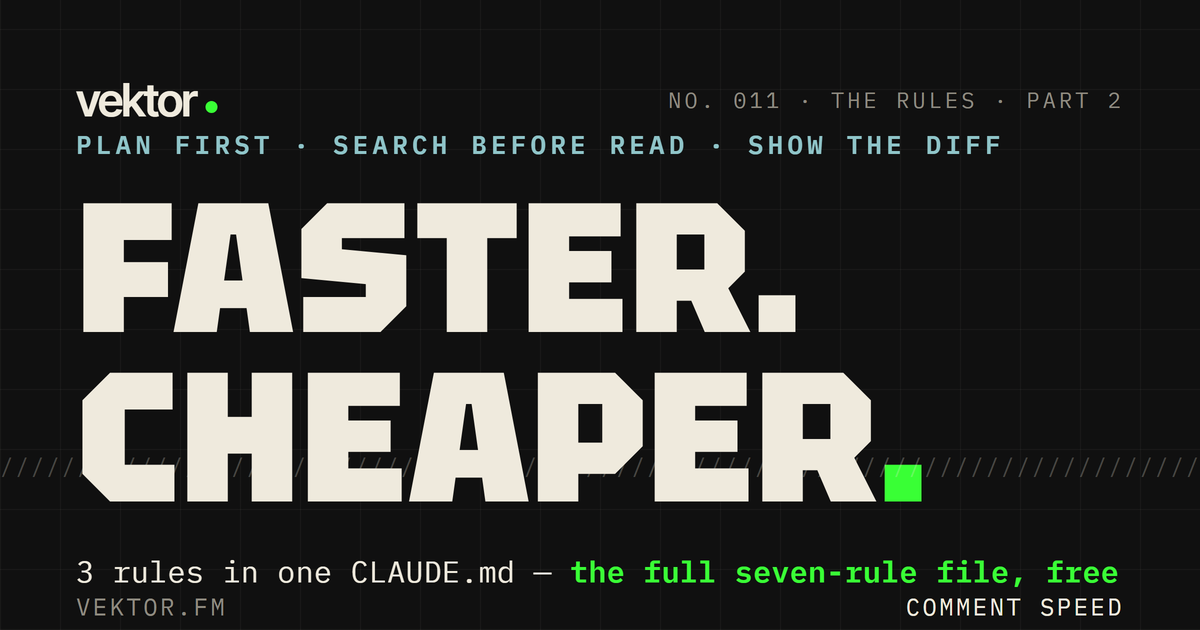
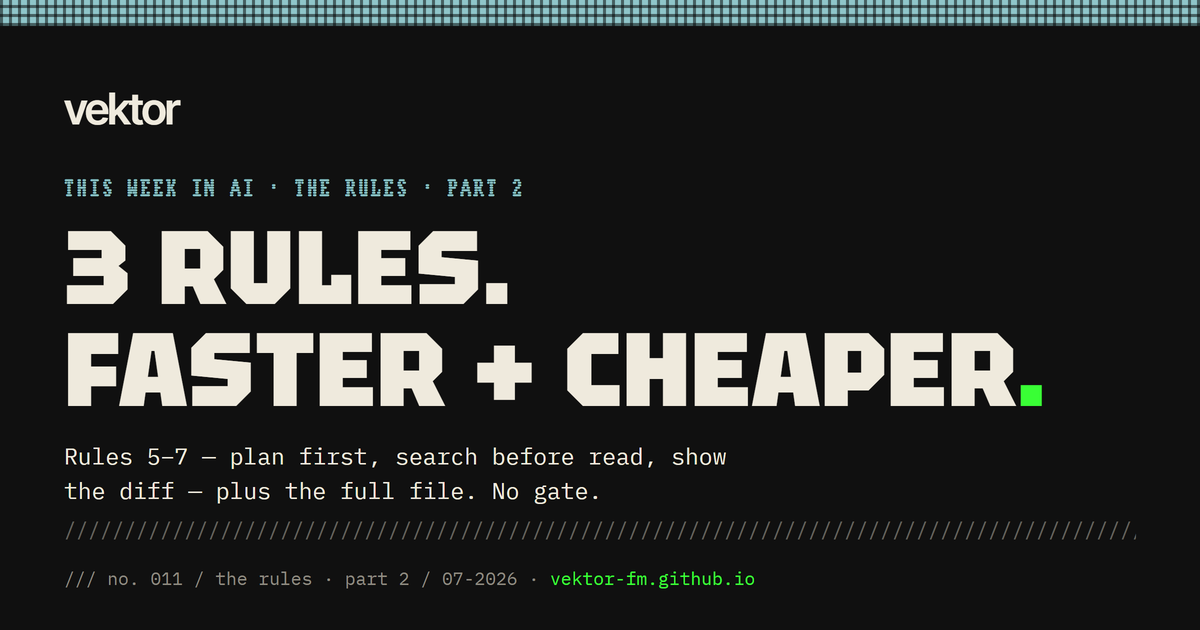
Taste pass: dominant index capture, unified wordmark chrome, no-006 primary CTA, five OG cards rebuilt
Four delegated design decisions, verified by measurement + visual judge:

- Index email capture upgraded from a quiet border-top form to the issue
  pages' dominant card grammar (aqua-border card, acid kicker, Tektur
  headline "Get every drop's pack.", filled button) and widened to full
  content width so desktop no longer strands it in half the container.
- Wordmark chrome unified: thanks.html masthead gets the standard glitch
  decode lockup; the index footer gets the glitch footer wordmark with
  the same IntersectionObserver replay as issue pages. One rule per
  position, everywhere.
- no-006 hero: the on-page "Our starter file" anchor is now the single
  filled primary, placed first; the off-site GitHub link stays secondary
  (consistent with the funnel redesign's email-primary/off-site-demoted
  rule -- making the external link primary would have contradicted it).
- OG cards for 008-012 rebuilt on the current template via the og_card
  manifest system (they were orphan PNGs from the pre-redesign template
  with no sources). Headlines uniform at 104px (012 at 90 so "your repo
  survives" holds one line), subs capped at two lines, sub margin 18 --
  all five measured clear of the hatch rule (subBottom <= 510 vs rule
  515) before rendering; judge passed 5/5.

Note: the four approved pre-existing cards (004/006/007/015) also
overlap the hatch rule (007 by 59px, 015 by 73px) -- left untouched
deliberately; they are approved live artifacts.

diff --git a/index.html b/index.html
@@ -206,8 +206,10 @@
   @media (min-width:820px){ .hero .ascii{display:block;} }
 
   /* newsletter (primary action, in-hero) */
-  .capture{margin-top:36px; max-width:560px; border-top:3px solid var(--paper); padding-top:24px;}
-  .capture h2.kick{display:block; color:var(--acid); margin:0 0 14px; font-weight:400;}
+  .capture{margin-top:36px; background:#141414; border:2px solid var(--aqua); padding:30px 26px 28px;}
+  .capture .ck{display:block; color:var(--acid); font-family:var(--kick); text-transform:uppercase; letter-spacing:0.14em; font-size:13px; margin-bottom:10px;}
+  .capture h2.d{font-family:var(--disp); font-weight:900; text-transform:uppercase; line-height:1.02; letter-spacing:0.005em; font-size:clamp(28px,7.5vw,48px); margin:0 0 12px;}
+  .capture p.s{font-size:15.5px; line-height:1.5; max-width:52ch; margin:0 0 20px; color:var(--paper);}
   .capture .ok{display:none; margin-top:14px; font-family:var(--kick); text-transform:uppercase; letter-spacing:0.1em; font-size:13px; color:var(--acid);}
   .capture.done form{display:none;}
   .capture.done .ok{display:block;}
@@ -270,7 +272,15 @@
   .socials a:hover{color:var(--acid);}
   .backref{margin-top:32px; font-family:var(--kick); text-transform:uppercase; letter-spacing:0.1em; font-size:13px; color:var(--paper);}
   .wordmark-foot{display:flex; align-items:center; gap:14px; margin-top:38px; flex-wrap:wrap;}
-  .wordmark-foot .w{font-family:var(--wm); font-weight:600; letter-spacing:-0.045em; font-size:34px; color:var(--paper);}
+  .wm-foot{position:relative; display:inline-flex; font-family:var(--wm); font-weight:600; letter-spacing:-0.045em; font-size:34px; color:var(--paper);}
+  .wm-foot .ch2{position:relative; display:inline-block;}
+  .wm-foot .ch2 .l{opacity:1;}
+  .wm-foot .ch2 .g{position:absolute; left:0; top:0; font-family:var(--mono); color:var(--acid); opacity:0;}
+  .wm-foot.play .ch2 .l{animation:revealL2 .01s steps(1) both; animation-delay:calc(0.16s + var(--i)*0.07s);}
+  .wm-foot.play .ch2 .g{animation:flashG2 .07s steps(1) both; animation-delay:calc(0.10s + var(--i)*0.07s);}
+  @keyframes revealL2{0%{opacity:0;}100%{opacity:1;}}
+  @keyframes flashG2{0%{opacity:1;}100%{opacity:0;}}
+  @media (prefers-reduced-motion:reduce){ .wm-foot.play .ch2 .l{animation:none;} .wm-foot .ch2 .g{display:none;} }
   .wordmark-foot .m{font-family:var(--mono); font-size:12px; color:#8f8b80;}
 </style>
 </head>
@@ -331,12 +341,14 @@
 <!-- ============================ NEWSLETTER (primary conversion) ============================ -->
 <section style="padding:12px var(--rail) 0;">
   <div class="capture" id="subscribe">
-    <h2 class="kick">The Teardown — one email / week</h2>
+    <span class="ck">The Teardown — one email / week</span>
+    <h2 class="d">Get every drop's pack.</h2>
+    <p class="s">The current drop's config pack + one teardown a week, straight to your inbox.</p>
     <form method="post" action="https://buttondown.com/api/emails/embed-subscribe/vektor">
       <input type="email" name="email" placeholder="you@email.com" aria-label="Email address" autocomplete="email" required="">
       <button class="btn" type="submit">Subscribe →</button>
     </form>
-    <div class="note">The current drop's config pack + one teardown a week. Unsubscribe anytime.</div>
+    <div class="note">Free. Unsubscribe anytime.</div>
   </div>
 </section>
 
@@ -479,7 +491,7 @@
   </nav>
   <div class="backref">Comment the keyword on the latest reel.</div>
   <div class="wordmark-foot">
-    <span class="w">vektor</span>
+    <span class="wm-foot" id="wmFoot" aria-label="vektor"><span class="ch2" style="--i:0"><span class="g">%</span><span class="l">v</span></span><span class="ch2" style="--i:1"><span class="g">#</span><span class="l">e</span></span><span class="ch2" style="--i:2"><span class="g">Z</span><span class="l">k</span></span><span class="ch2" style="--i:3"><span class="g">8</span><span class="l">t</span></span><span class="ch2" style="--i:4"><span class="g">@</span><span class="l">o</span></span><span class="ch2" style="--i:5"><span class="g">W</span><span class="l">r</span></span></span>
     <span class="m">/// index / 07-2026 · the frontier, by the numbers</span>
   </div>
 </footer>
@@ -491,6 +503,8 @@
   // GoatCounter subscribe event + non-blocking Buttondown submit + UTM tagging.
   // Page works fully without JS (form falls back to a normal POST redirect).
   document.querySelectorAll('form').forEach(function(f){ f.addEventListener('submit', function(){ if(window.goatcounter && goatcounter.count){ goatcounter.count({path:'hub-subscribe-submit', event:true}); } }); });
+  var wmFoot=document.getElementById('wmFoot');
+  if(wmFoot && 'IntersectionObserver' in window){ var io=new IntersectionObserver(function(es){ es.forEach(function(e){ if(e.isIntersecting){ wmFoot.classList.remove('play'); void wmFoot.offsetWidth; wmFoot.classList.add('play'); } }); }, {threshold:0.6}); io.observe(wmFoot); }
   // Form submits as a plain navigation POST — Buttondown interposes a one-click
   // verification page, so an AJAX submit silently drops the signup (tested 2026-07-05).
   document.querySelectorAll('a[href^="http"]').forEach(function(a){

diff --git a/src/index.body.html b/src/index.body.html
@@ -206,8 +206,10 @@
   @media (min-width:820px){ .hero .ascii{display:block;} }
 
   /* newsletter (primary action, in-hero) */
-  .capture{margin-top:36px; max-width:560px; border-top:3px solid var(--paper); padding-top:24px;}
-  .capture h2.kick{display:block; color:var(--acid); margin:0 0 14px; font-weight:400;}
+  .capture{margin-top:36px; background:#141414; border:2px solid var(--aqua); padding:30px 26px 28px;}
+  .capture .ck{display:block; color:var(--acid); font-family:var(--kick); text-transform:uppercase; letter-spacing:0.14em; font-size:13px; margin-bottom:10px;}
+  .capture h2.d{font-family:var(--disp); font-weight:900; text-transform:uppercase; line-height:1.02; letter-spacing:0.005em; font-size:clamp(28px,7.5vw,48px); margin:0 0 12px;}
+  .capture p.s{font-size:15.5px; line-height:1.5; max-width:52ch; margin:0 0 20px; color:var(--paper);}
   .capture .ok{display:none; margin-top:14px; font-family:var(--kick); text-transform:uppercase; letter-spacing:0.1em; font-size:13px; color:var(--acid);}
   .capture.done form{display:none;}
   .capture.done .ok{display:block;}
@@ -270,7 +272,15 @@
   .socials a:hover{color:var(--acid);}
   .backref{margin-top:32px; font-family:var(--kick); text-transform:uppercase; letter-spacing:0.1em; font-size:13px; color:var(--paper);}
   .wordmark-foot{display:flex; align-items:center; gap:14px; margin-top:38px; flex-wrap:wrap;}
-  .wordmark-foot .w{font-family:var(--wm); font-weight:600; letter-spacing:-0.045em; font-size:34px; color:var(--paper);}
+  .wm-foot{position:relative; display:inline-flex; font-family:var(--wm); font-weight:600; letter-spacing:-0.045em; font-size:34px; color:var(--paper);}
+  .wm-foot .ch2{position:relative; display:inline-block;}
+  .wm-foot .ch2 .l{opacity:1;}
+  .wm-foot .ch2 .g{position:absolute; left:0; top:0; font-family:var(--mono); color:var(--acid); opacity:0;}
+  .wm-foot.play .ch2 .l{animation:revealL2 .01s steps(1) both; animation-delay:calc(0.16s + var(--i)*0.07s);}
+  .wm-foot.play .ch2 .g{animation:flashG2 .07s steps(1) both; animation-delay:calc(0.10s + var(--i)*0.07s);}
+  @keyframes revealL2{0%{opacity:0;}100%{opacity:1;}}
+  @keyframes flashG2{0%{opacity:1;}100%{opacity:0;}}
+  @media (prefers-reduced-motion:reduce){ .wm-foot.play .ch2 .l{animation:none;} .wm-foot .ch2 .g{display:none;} }
   .wordmark-foot .m{font-family:var(--mono); font-size:12px; color:#8f8b80;}
 </style>
 </head>
@@ -331,12 +341,14 @@
 <!-- ============================ NEWSLETTER (primary conversion) ============================ -->
 <section style="padding:12px var(--rail) 0;">
   <div class="capture" id="subscribe">
-    <h2 class="kick">The Teardown — one email / week</h2>
+    <span class="ck">The Teardown — one email / week</span>
+    <h2 class="d">Get every drop's pack.</h2>
+    <p class="s">The current drop's config pack + one teardown a week, straight to your inbox.</p>
     <form method="post" action="https://buttondown.com/api/emails/embed-subscribe/vektor">
       <input type="email" name="email" placeholder="you@email.com" aria-label="Email address" autocomplete="email" required="">
       <button class="btn" type="submit">Subscribe →</button>
     </form>
-    <div class="note">The current drop's config pack + one teardown a week. Unsubscribe anytime.</div>
+    <div class="note">Free. Unsubscribe anytime.</div>
   </div>
 </section>
 
@@ -381,7 +393,7 @@
   </nav>
   <div class="backref">Comment the keyword on the latest reel.</div>
   <div class="wordmark-foot">
-    <span class="w">vektor</span>
+    <span class="wm-foot" id="wmFoot" aria-label="vektor"><span class="ch2" style="--i:0"><span class="g">%</span><span class="l">v</span></span><span class="ch2" style="--i:1"><span class="g">#</span><span class="l">e</span></span><span class="ch2" style="--i:2"><span class="g">Z</span><span class="l">k</span></span><span class="ch2" style="--i:3"><span class="g">8</span><span class="l">t</span></span><span class="ch2" style="--i:4"><span class="g">@</span><span class="l">o</span></span><span class="ch2" style="--i:5"><span class="g">W</span><span class="l">r</span></span></span>
     <span class="m">/// index / 07-2026 · the frontier, by the numbers</span>
   </div>
 </footer>
@@ -393,6 +405,8 @@
   // GoatCounter subscribe event + non-blocking Buttondown submit + UTM tagging.
   // Page works fully without JS (form falls back to a normal POST redirect).
   document.querySelectorAll('form').forEach(function(f){ f.addEventListener('submit', function(){ if(window.goatcounter && goatcounter.count){ goatcounter.count({path:'hub-subscribe-submit', event:true}); } }); });
+  var wmFoot=document.getElementById('wmFoot');
+  if(wmFoot && 'IntersectionObserver' in window){ var io=new IntersectionObserver(function(es){ es.forEach(function(e){ if(e.isIntersecting){ wmFoot.classList.remove('play'); void wmFoot.offsetWidth; wmFoot.classList.add('play'); } }); }, {threshold:0.6}); io.observe(wmFoot); }
   // Form submits as a plain navigation POST — Buttondown interposes a one-click
   // verification page, so an AJAX submit silently drops the signup (tested 2026-07-05).
   document.querySelectorAll('a[href^="http"]').forEach(function(a){

diff --git a/thanks.html b/thanks.html
@@ -35,7 +35,19 @@
   .chrome{ position:sticky; top:0; z-index:50; background:var(--ink); border-bottom:1px solid #262626; display:flex; align-items:center; justify-content:space-between; height:64px; padding:0 var(--rail); }
   .chrome .marker{font-family:var(--kick); text-transform:uppercase; letter-spacing:0.1em; font-size:13px; color:#8f8b80;}
   @media (max-width:520px){ .chrome .marker{display:none;} }
-  .wm{display:inline-flex; text-decoration:none; font-family:var(--wm); font-weight:600; letter-spacing:-0.045em; color:var(--paper); font-size:30px; line-height:1;}
+  .wm{position:relative; display:inline-flex; text-decoration:none; font-family:var(--wm); font-weight:600; letter-spacing:-0.045em; color:var(--paper); font-size:30px; line-height:1;}
+  .wm-main{position:relative; z-index:2; display:inline-flex;}
+  .wm-main .ch{position:relative; display:inline-block;}
+  .wm-main .ch .l{opacity:0; animation:showL .01s steps(1) forwards; animation-delay:calc(0.20s + var(--i)*0.075s);}
+  .wm-main .ch .g{position:absolute; left:0; top:0; font-family:var(--mono); color:var(--acid); opacity:0; animation:flashG .075s steps(1) forwards; animation-delay:calc(0.14s + var(--i)*0.075s);}
+  @keyframes showL{to{opacity:1;}}
+  @keyframes flashG{0%{opacity:1;}100%{opacity:0;}}
+  .wm-plate{position:absolute; left:0; top:0; z-index:1; mix-blend-mode:screen; pointer-events:none;}
+  .wm-acid{color:var(--acid); animation:regA 1.15s steps(1) forwards;}
+  .wm-orchid{color:#C77BC9; animation:regB 1.15s steps(1) forwards;}
+  @keyframes regA{0%{transform:translate(7px,4px);opacity:.85}30%{transform:translate(4px,2px)}55%{transform:translate(2px,1px)}78%{transform:translate(0,0);opacity:.5}100%{transform:translate(0,0);opacity:0}}
+  @keyframes regB{0%{transform:translate(-6px,-4px);opacity:.85}30%{transform:translate(-4px,-2px)}55%{transform:translate(-2px,-1px)}78%{transform:translate(0,0);opacity:.5}100%{transform:translate(0,0);opacity:0}}
+  @media (prefers-reduced-motion:reduce){ .wm-main .ch .l{opacity:1; animation:none;} .wm-main .ch .g,.wm-plate{display:none;} }
   .weave{ height:26px; width:100%; margin:0; background-color:var(--aqua); background-image: repeating-linear-gradient(90deg, rgba(16,16,16,.55) 0 3px, transparent 3px 9px), repeating-linear-gradient(0deg, rgba(16,16,16,.55) 0 3px, transparent 3px 9px), repeating-linear-gradient(90deg, rgba(255,255,255,.25) 0 1px, transparent 1px 9px); background-blend-mode:multiply; }
   .hero{padding:56px var(--rail) 40px;}
   .hero .eye{color:var(--aqua); margin-bottom:20px;}
@@ -60,7 +72,13 @@
 <body>
 
 <header class="chrome">
-  <a class="wm" href="./index.html" aria-label="vektor">vektor</a>
+  <a class="wm" href="./index.html" aria-label="vektor">
+    <span class="wm-plate wm-acid" aria-hidden="true">vektor</span>
+    <span class="wm-plate wm-orchid" aria-hidden="true">vektor</span>
+    <span class="wm-main">
+      <span class="ch" style="--i:0"><span class="g">%</span><span class="l">v</span></span><span class="ch" style="--i:1"><span class="g">#</span><span class="l">e</span></span><span class="ch" style="--i:2"><span class="g">Z</span><span class="l">k</span></span><span class="ch" style="--i:3"><span class="g">8</span><span class="l">t</span></span><span class="ch" style="--i:4"><span class="g">@</span><span class="l">o</span></span><span class="ch" style="--i:5"><span class="g">W</span><span class="l">r</span></span>
+    </span>
+  </a>
   <span class="marker">The Teardown · Confirmed</span>
 </header>
 

diff --git a/og-src-no-011.html b/og-src-no-011.html
@@ -1,0 +1,30 @@
+<!DOCTYPE html>
+<html lang="en"><head>
+<meta charset="utf-8">
+<style>
+@font-face { font-family:'Tektur'; font-weight:900; src:url("fonts/tektur-900-latin.woff2") format('woff2'); }
+@font-face { font-family:'IBM Plex Mono'; font-weight:400; src:url("fonts/ibm-plex-mono-400-latin.woff2") format('woff2'); }
+@font-face { font-family:'Workbench'; font-weight:400; src:url("fonts/workbench-400-latin.woff2") format('woff2'); }
+@font-face { font-family:'Inter Tight'; font-weight:600; src:url("fonts/inter-tight-600-latin.woff2") format('woff2'); }
+*{box-sizing:border-box;margin:0;}
+html,body{width:1200px;height:630px;overflow:hidden;}
+body{background:#101010;color:#EFEADD;font-family:'IBM Plex Mono',monospace;position:relative;padding:56px 64px;}
+.weave{position:absolute;top:0;left:0;height:26px;width:100%;background-color:#8FC5C9;background-image:repeating-linear-gradient(90deg,rgba(16,16,16,.55) 0 3px,transparent 3px 9px),repeating-linear-gradient(0deg,rgba(16,16,16,.55) 0 3px,transparent 3px 9px),repeating-linear-gradient(90deg,rgba(255,255,255,.25) 0 1px,transparent 1px 9px);background-blend-mode:multiply;}
+.wm{font-family:'Inter Tight',sans-serif;font-weight:600;letter-spacing:-0.045em;font-size:44px;margin-top:26px;}
+.kick{font-family:'Workbench',monospace;text-transform:uppercase;letter-spacing:0.14em;font-size:20px;color:#8FC5C9;margin-top:44px;}
+h1{font-family:'Tektur',sans-serif;font-weight:900;text-transform:uppercase;line-height:0.98;letter-spacing:0.005em;font-size:104px;margin-top:18px;}
+h1 .dot{color:#39FF35;}
+.sub{font-size:23px;line-height:1.5;margin-top:18px;max-width:48ch;color:#EFEADD;}
+.rule{position:absolute;left:64px;right:64px;bottom:88px;color:rgba(239,234,221,0.4);font-size:20px;white-space:nowrap;overflow:hidden;}
+.meta{position:absolute;left:64px;bottom:40px;font-size:18px;color:#8f8b80;}
+.meta b{color:#39FF35;font-weight:400;}
+</style></head>
+<body>
+<div class="weave"></div>
+<div class="wm">vektor</div>
+<div class="kick">This Week in AI · The Rules · Part 2</div>
+<h1>3 rules.<br>Faster + cheaper<span class="dot">.</span></h1>
+<p class="sub">Rules 5–7 — plan first, search before read, show the diff — plus the full file. No gate.</p>
+<div class="rule">////////////////////////////////////////////////////////////////////////////////////////////////////////////////</div>
+<div class="meta">/// no. 011 / the rules · part 2 / 07-2026 · <b>vektor-fm.github.io</b></div>
+</body></html>

diff --git a/og-src-no-012.html b/og-src-no-012.html
@@ -1,0 +1,30 @@
+<!DOCTYPE html>
+<html lang="en"><head>
+<meta charset="utf-8">
+<style>
+@font-face { font-family:'Tektur'; font-weight:900; src:url("fonts/tektur-900-latin.woff2") format('woff2'); }
+@font-face { font-family:'IBM Plex Mono'; font-weight:400; src:url("fonts/ibm-plex-mono-400-latin.woff2") format('woff2'); }
+@font-face { font-family:'Workbench'; font-weight:400; src:url("fonts/workbench-400-latin.woff2") format('woff2'); }
+@font-face { font-family:'Inter Tight'; font-weight:600; src:url("fonts/inter-tight-600-latin.woff2") format('woff2'); }
+*{box-sizing:border-box;margin:0;}
+html,body{width:1200px;height:630px;overflow:hidden;}
+body{background:#101010;color:#EFEADD;font-family:'IBM Plex Mono',monospace;position:relative;padding:56px 64px;}
+.weave{position:absolute;top:0;left:0;height:26px;width:100%;background-color:#8FC5C9;background-image:repeating-linear-gradient(90deg,rgba(16,16,16,.55) 0 3px,transparent 3px 9px),repeating-linear-gradient(0deg,rgba(16,16,16,.55) 0 3px,transparent 3px 9px),repeating-linear-gradient(90deg,rgba(255,255,255,.25) 0 1px,transparent 1px 9px);background-blend-mode:multiply;}
+.wm{font-family:'Inter Tight',sans-serif;font-weight:600;letter-spacing:-0.045em;font-size:44px;margin-top:26px;}
+.kick{font-family:'Workbench',monospace;text-transform:uppercase;letter-spacing:0.14em;font-size:20px;color:#8FC5C9;margin-top:44px;}
+h1{font-family:'Tektur',sans-serif;font-weight:900;text-transform:uppercase;line-height:0.98;letter-spacing:0.005em;font-size:90px;margin-top:18px;}
+h1 .dot{color:#39FF35;}
+.sub{font-size:23px;line-height:1.5;margin-top:18px;max-width:48ch;color:#EFEADD;}
+.rule{position:absolute;left:64px;right:64px;bottom:88px;color:rgba(239,234,221,0.4);font-size:20px;white-space:nowrap;overflow:hidden;}
+.meta{position:absolute;left:64px;bottom:40px;font-size:18px;color:#8f8b80;}
+.meta b{color:#39FF35;font-weight:400;}
+</style></head>
+<body>
+<div class="weave"></div>
+<div class="wm">vektor</div>
+<div class="kick">This Week in AI · Git Hygiene</div>
+<h1>6 rules.<br>Your repo survives<span class="dot">.</span></h1>
+<p class="sub">The git-hygiene CLAUDE.md — six rules that keep an AI agent from wrecking your repo. No gate.</p>
+<div class="rule">////////////////////////////////////////////////////////////////////////////////////////////////////////////////</div>
+<div class="meta">/// no. 012 / git hygiene / 07-2026 · <b>vektor-fm.github.io</b></div>
+</body></html>

diff --git a/og-src-no-009.html b/og-src-no-009.html
@@ -1,0 +1,30 @@
+<!DOCTYPE html>
+<html lang="en"><head>
+<meta charset="utf-8">
+<style>
+@font-face { font-family:'Tektur'; font-weight:900; src:url("fonts/tektur-900-latin.woff2") format('woff2'); }
+@font-face { font-family:'IBM Plex Mono'; font-weight:400; src:url("fonts/ibm-plex-mono-400-latin.woff2") format('woff2'); }
+@font-face { font-family:'Workbench'; font-weight:400; src:url("fonts/workbench-400-latin.woff2") format('woff2'); }
+@font-face { font-family:'Inter Tight'; font-weight:600; src:url("fonts/inter-tight-600-latin.woff2") format('woff2'); }
+*{box-sizing:border-box;margin:0;}
+html,body{width:1200px;height:630px;overflow:hidden;}
+body{background:#101010;color:#EFEADD;font-family:'IBM Plex Mono',monospace;position:relative;padding:56px 64px;}
+.weave{position:absolute;top:0;left:0;height:26px;width:100%;background-color:#8FC5C9;background-image:repeating-linear-gradient(90deg,rgba(16,16,16,.55) 0 3px,transparent 3px 9px),repeating-linear-gradient(0deg,rgba(16,16,16,.55) 0 3px,transparent 3px 9px),repeating-linear-gradient(90deg,rgba(255,255,255,.25) 0 1px,transparent 1px 9px);background-blend-mode:multiply;}
+.wm{font-family:'Inter Tight',sans-serif;font-weight:600;letter-spacing:-0.045em;font-size:44px;margin-top:26px;}
+.kick{font-family:'Workbench',monospace;text-transform:uppercase;letter-spacing:0.14em;font-size:20px;color:#8FC5C9;margin-top:44px;}
+h1{font-family:'Tektur',sans-serif;font-weight:900;text-transform:uppercase;line-height:0.98;letter-spacing:0.005em;font-size:104px;margin-top:18px;}
+h1 .dot{color:#39FF35;}
+.sub{font-size:23px;line-height:1.5;margin-top:18px;max-width:48ch;color:#EFEADD;}
+.rule{position:absolute;left:64px;right:64px;bottom:88px;color:rgba(239,234,221,0.4);font-size:20px;white-space:nowrap;overflow:hidden;}
+.meta{position:absolute;left:64px;bottom:40px;font-size:18px;color:#8f8b80;}
+.meta b{color:#39FF35;font-weight:400;}
+</style></head>
+<body>
+<div class="weave"></div>
+<div class="wm">vektor</div>
+<div class="kick">This Week in AI · The Carousel</div>
+<h1>One prompt.<br>Every carousel<span class="dot">.</span></h1>
+<p class="sub">The master prompt that turns any topic into an Instagram carousel. Paste-ready. No gate.</p>
+<div class="rule">////////////////////////////////////////////////////////////////////////////////////////////////////////////////</div>
+<div class="meta">/// no. 009 / the carousel / 07-2026 · <b>vektor-fm.github.io</b></div>
+</body></html>

diff --git a/og-src-no-010.html b/og-src-no-010.html
@@ -1,0 +1,30 @@
+<!DOCTYPE html>
+<html lang="en"><head>
+<meta charset="utf-8">
+<style>
+@font-face { font-family:'Tektur'; font-weight:900; src:url("fonts/tektur-900-latin.woff2") format('woff2'); }
+@font-face { font-family:'IBM Plex Mono'; font-weight:400; src:url("fonts/ibm-plex-mono-400-latin.woff2") format('woff2'); }
+@font-face { font-family:'Workbench'; font-weight:400; src:url("fonts/workbench-400-latin.woff2") format('woff2'); }
+@font-face { font-family:'Inter Tight'; font-weight:600; src:url("fonts/inter-tight-600-latin.woff2") format('woff2'); }
+*{box-sizing:border-box;margin:0;}
+html,body{width:1200px;height:630px;overflow:hidden;}
+body{background:#101010;color:#EFEADD;font-family:'IBM Plex Mono',monospace;position:relative;padding:56px 64px;}
+.weave{position:absolute;top:0;left:0;height:26px;width:100%;background-color:#8FC5C9;background-image:repeating-linear-gradient(90deg,rgba(16,16,16,.55) 0 3px,transparent 3px 9px),repeating-linear-gradient(0deg,rgba(16,16,16,.55) 0 3px,transparent 3px 9px),repeating-linear-gradient(90deg,rgba(255,255,255,.25) 0 1px,transparent 1px 9px);background-blend-mode:multiply;}
+.wm{font-family:'Inter Tight',sans-serif;font-weight:600;letter-spacing:-0.045em;font-size:44px;margin-top:26px;}
+.kick{font-family:'Workbench',monospace;text-transform:uppercase;letter-spacing:0.14em;font-size:20px;color:#8FC5C9;margin-top:44px;}
+h1{font-family:'Tektur',sans-serif;font-weight:900;text-transform:uppercase;line-height:0.98;letter-spacing:0.005em;font-size:104px;margin-top:18px;}
+h1 .dot{color:#39FF35;}
+.sub{font-size:23px;line-height:1.5;margin-top:18px;max-width:48ch;color:#EFEADD;}
+.rule{position:absolute;left:64px;right:64px;bottom:88px;color:rgba(239,234,221,0.4);font-size:20px;white-space:nowrap;overflow:hidden;}
+.meta{position:absolute;left:64px;bottom:40px;font-size:18px;color:#8f8b80;}
+.meta b{color:#39FF35;font-weight:400;}
+</style></head>
+<body>
+<div class="weave"></div>
+<div class="wm">vektor</div>
+<div class="kick">This Week in AI · The Rules</div>
+<h1>7 rules.<br>One file<span class="dot">.</span></h1>
+<p class="sub">The CLAUDE.md that fixed Claude Code — all seven rules, the redacted three included. No gate.</p>
+<div class="rule">////////////////////////////////////////////////////////////////////////////////////////////////////////////////</div>
+<div class="meta">/// no. 010 / the rules / 07-2026 · <b>vektor-fm.github.io</b></div>
+</body></html>

diff --git a/og-src-no-008.html b/og-src-no-008.html
@@ -1,0 +1,30 @@
+<!DOCTYPE html>
+<html lang="en"><head>
+<meta charset="utf-8">
+<style>
+@font-face { font-family:'Tektur'; font-weight:900; src:url("fonts/tektur-900-latin.woff2") format('woff2'); }
+@font-face { font-family:'IBM Plex Mono'; font-weight:400; src:url("fonts/ibm-plex-mono-400-latin.woff2") format('woff2'); }
+@font-face { font-family:'Workbench'; font-weight:400; src:url("fonts/workbench-400-latin.woff2") format('woff2'); }
+@font-face { font-family:'Inter Tight'; font-weight:600; src:url("fonts/inter-tight-600-latin.woff2") format('woff2'); }
+*{box-sizing:border-box;margin:0;}
+html,body{width:1200px;height:630px;overflow:hidden;}
+body{background:#101010;color:#EFEADD;font-family:'IBM Plex Mono',monospace;position:relative;padding:56px 64px;}
+.weave{position:absolute;top:0;left:0;height:26px;width:100%;background-color:#8FC5C9;background-image:repeating-linear-gradient(90deg,rgba(16,16,16,.55) 0 3px,transparent 3px 9px),repeating-linear-gradient(0deg,rgba(16,16,16,.55) 0 3px,transparent 3px 9px),repeating-linear-gradient(90deg,rgba(255,255,255,.25) 0 1px,transparent 1px 9px);background-blend-mode:multiply;}
+.wm{font-family:'Inter Tight',sans-serif;font-weight:600;letter-spacing:-0.045em;font-size:44px;margin-top:26px;}
+.kick{font-family:'Workbench',monospace;text-transform:uppercase;letter-spacing:0.14em;font-size:20px;color:#8FC5C9;margin-top:44px;}
+h1{font-family:'Tektur',sans-serif;font-weight:900;text-transform:uppercase;line-height:0.98;letter-spacing:0.005em;font-size:104px;margin-top:18px;}
+h1 .dot{color:#39FF35;}
+.sub{font-size:23px;line-height:1.5;margin-top:18px;max-width:48ch;color:#EFEADD;}
+.rule{position:absolute;left:64px;right:64px;bottom:88px;color:rgba(239,234,221,0.4);font-size:20px;white-space:nowrap;overflow:hidden;}
+.meta{position:absolute;left:64px;bottom:40px;font-size:18px;color:#8f8b80;}
+.meta b{color:#39FF35;font-weight:400;}
+</style></head>
+<body>
+<div class="weave"></div>
+<div class="wm">vektor</div>
+<div class="kick">This Week in AI · The Leak</div>
+<h1>120,000 chars.<br>Leaked<span class="dot">.</span></h1>
+<p class="sub">Claude's system prompt on GitHub — plus a paste-ready starter CLAUDE.md. No gate.</p>
+<div class="rule">////////////////////////////////////////////////////////////////////////////////////////////////////////////////</div>
+<div class="meta">/// no. 008 / the leak / 07-2026 · <b>vektor-fm.github.io</b></div>
+</body></html>

diff --git a/no-006.html b/no-006.html
@@ -389,8 +389,8 @@
   <h1 class="disp">One file.<br>188,000<br>stars<span class="dot">.</span></h1>
   <p class="sub">The Karpathy-derived CLAUDE.md from NO. 006 — repo, the four rules, and our starter file. As promised.</p>
   <div class="actions">
+    <a class="btn primary" href="#starter">Our starter file ↓</a>
     <a class="btn" data-goatcounter-click="no006-get-file" href="https://github.com/forrestchang/andrej-karpathy-skills" target="_blank" rel="noopener">Get the file →</a>
-    <a class="btn" href="#starter">Our starter file ↓</a>
     <button class="btn" id="shareBtn" type="button">Send to a dev friend</button>
   </div>
   <div class="rule">////////////////////////////////////////////////////////////////////////////////////////////////</div>

diff --git a/src/no-006.body.html b/src/no-006.body.html
@@ -10,8 +10,8 @@
   <h1 class="disp">One file.<br>188,000<br>stars<span class="dot">.</span></h1>
   <p class="sub">The Karpathy-derived CLAUDE.md from NO. 006 — repo, the four rules, and our starter file. As promised.</p>
   <div class="actions">
+    <a class="btn primary" href="#starter">Our starter file ↓</a>
     <a class="btn" data-goatcounter-click="no006-get-file" href="https://github.com/forrestchang/andrej-karpathy-skills" target="_blank" rel="noopener">Get the file →</a>
-    <a class="btn" href="#starter">Our starter file ↓</a>
     <button class="btn" id="shareBtn" type="button">Send to a dev friend</button>
   </div>
   <div class="rule">////////////////////////////////////////////////////////////////////////////////////////////////</div>
